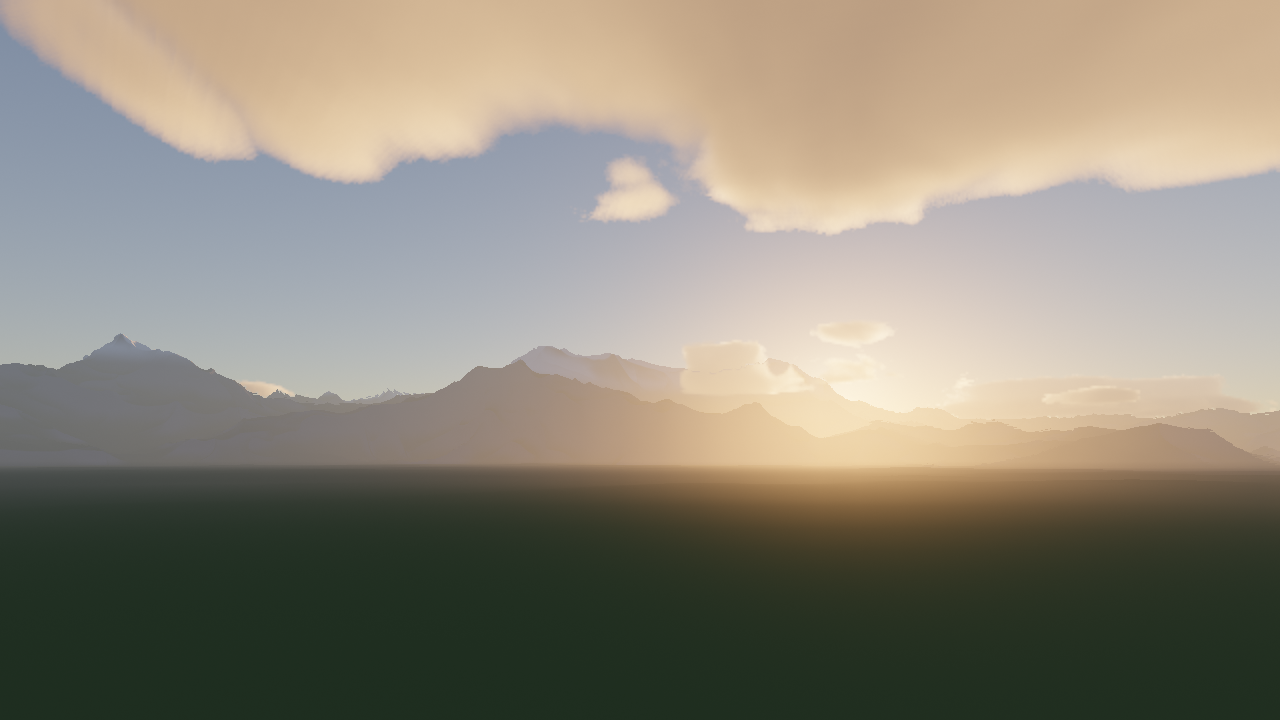
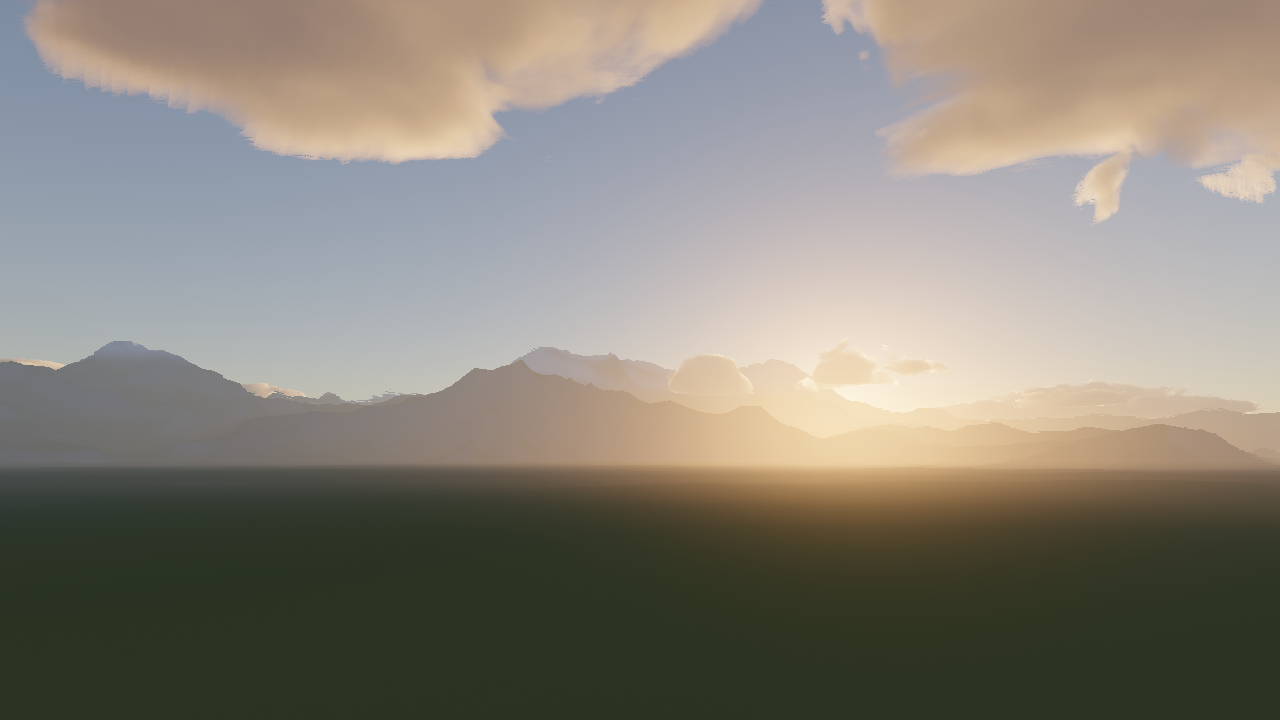
docs: give clouds real top relief and self-shadowing
The light march now uses the eroded density for its three nearest samples, so
surface bumps shadow their own crevices; erosion runs before the new density
sharpening instead of after it, where the narrow edge band had silenced it;
the Worley cells modulate each column's top height and the interior density;
the shape scale drops to 7 km for relief at hundreds of metres; and the detail
LOD is tiered by feature size so aerial views keep the coarse erosion.

Claude-Session: https://claude.ai/code/session_011M4jPQCZdmGgp8DEDrh6WW

diff --git a/apps/docs/examples/atmosphere/tuning.ts b/apps/docs/examples/atmosphere/tuning.ts
@@ -65,7 +65,7 @@ export const CLOUD_TUNING = {
   bottom: 1.6,
   top: 4.2,
   density: 1.0,
-  shapeScale: 12.0,
+  shapeScale: 7.0,
   detailScale: 1.1,
   weatherScale: 80,
   detailStrength: 1.0,
